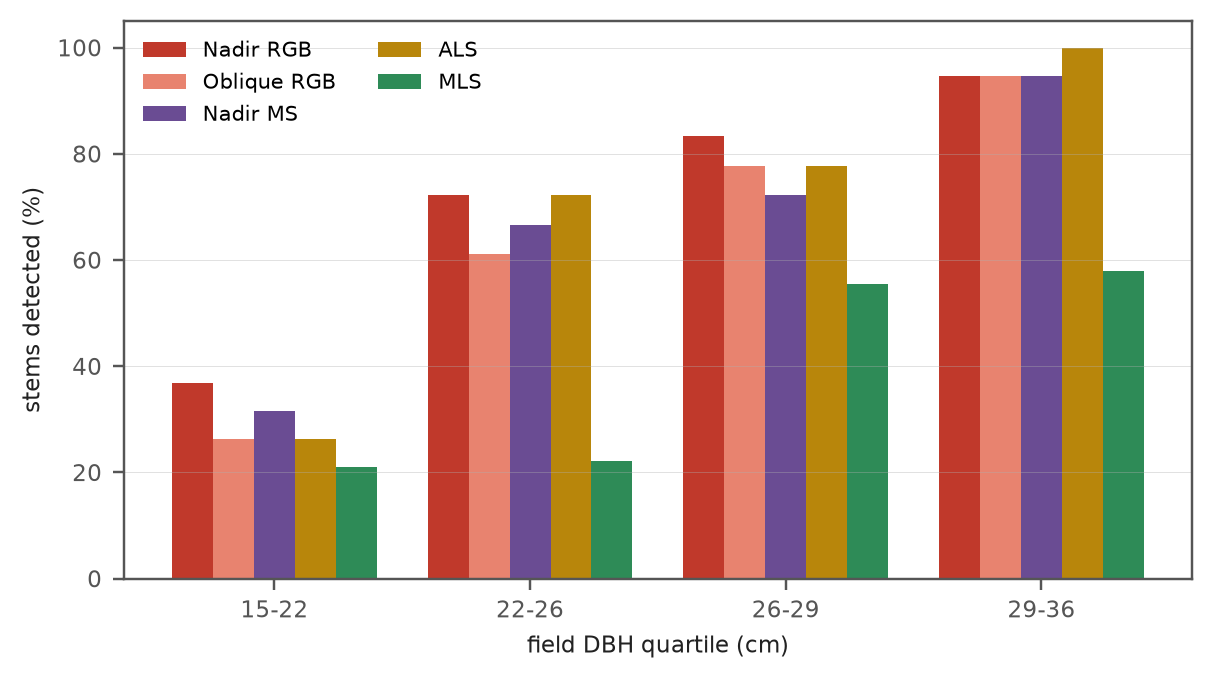
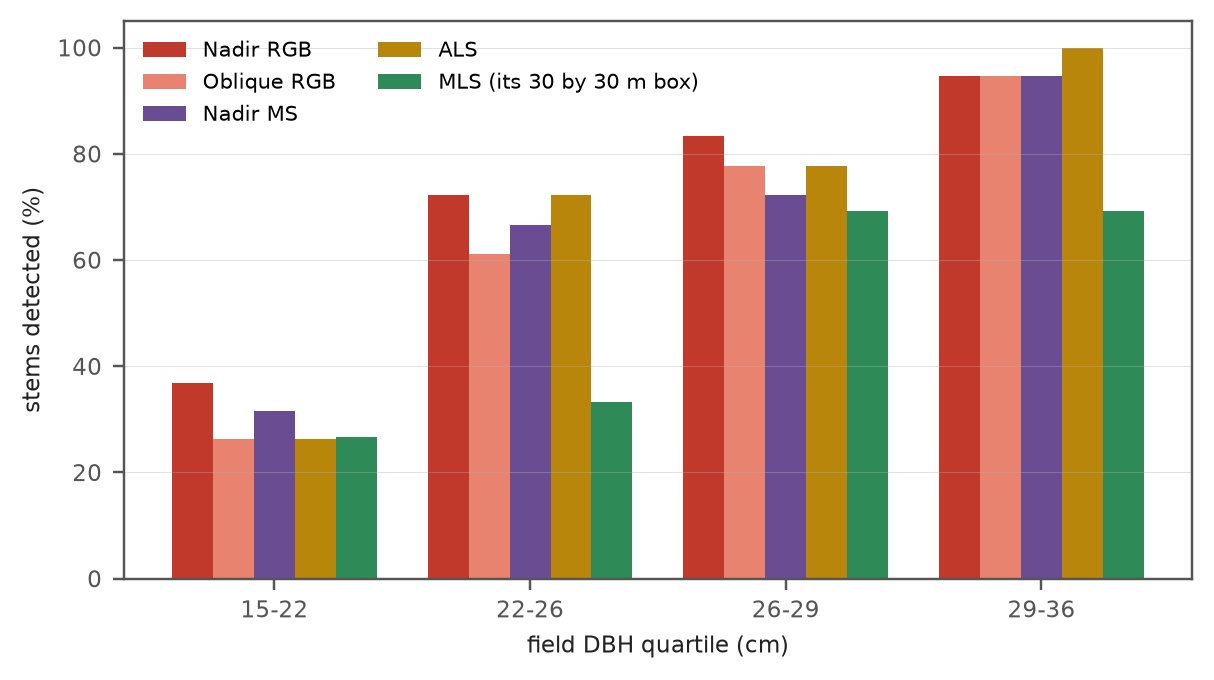
Score MLS on its own box in the detection-by-size figure
Figure 6 scored the MLS canopy height model detections against all 74 stems,
including the 24 outside the 30 by 30 m box it covers, which understated its
detection rate (21, 22, 56, 58 % by DBH quartile). Scored on the 50 stems in
the box it is 27, 33, 69, 69 %. The drone and ALS bars are unchanged. Report
caption, slide note and finding 18 updated.

diff --git a/scripts/project/06_figures.py b/scripts/project/06_figures.py
@@ -52,22 +52,30 @@ fig.tight_layout(pad=0.6); fig.savefig(F / "fig5_vertical_profiles.png", dpi=220
 plt.close(fig); print("fig5")
 
 # --- Figure 6: detection rate by DBH quartile, from the cache -------------------
+# The ground scanners are scored only on the stems inside the 30 by 30 m box they
+# cover. Scoring them over the whole plot counts 24 stems they never saw as misses
+# (finding 18). The drone and ALS cover the whole plot and are scored on all 74 stems.
 TOPS = A.detections()
 qs = np.quantile(DBH, [0, .25, .5, .75, 1.0])
+cls = np.clip(np.searchsorted(qs[1:-1], DBH, side="right"), 0, 3)
+in_box = C.in_box(REF[:, 0], REF[:, 1])
 rates = {}
 for name in ORDER:
     q = TOPS[(TOPS.cloud == name) & (np.isclose(TOPS.sep, 1.5))][["x", "y"]].to_numpy()
-    cost = np.linalg.norm(q[:, None, :] - REF[None, :, :], axis=2)
+    scored = in_box if name in ("TLS", "MLS") else np.ones(len(REF), bool)
+    cost = np.linalg.norm(q[:, None, :] - REF[scored][None, :, :], axis=2)
     i, j = linear_sum_assignment(cost)
     ok = cost[i, j] <= 2.0
-    hit = np.zeros(len(REF), bool); hit[j[ok]] = True
-    cls = np.clip(np.searchsorted(qs[1:-1], DBH, side="right"), 0, 3)
-    rates[name] = [100 * hit[cls == k].mean() for k in range(4)]
+    hit = np.zeros(scored.sum(), bool); hit[j[ok]] = True
+    c = cls[scored]
+    rates[name] = [100 * hit[c == k].mean() for k in range(4)]
 
+LABEL = {n: n.replace("_", " ") for n in ORDER}
+LABEL["MLS"] = "MLS (its 30 by 30 m box)"
 fig, a = plt.subplots(figsize=(5.4, 3.0))
 w = 0.16
 for i, (n, v) in enumerate(rates.items()):
-    a.bar(np.arange(4) + i * w - 2 * w, v, w, color=INK[n], label=n.replace("_", " "))
+    a.bar(np.arange(4) + i * w - 2 * w, v, w, color=INK[n], label=LABEL[n])
 a.set_xticks(np.arange(4))
 a.set_xticklabels([f"{qs[i]:.0f}-{qs[i+1]:.0f}" for i in range(4)])
 a.set_xlabel("field DBH quartile (cm)"); a.set_ylabel("stems detected (%)")

diff --git a/docs/project/report.md b/docs/project/report.md
@@ -213,7 +213,7 @@ TLS and MLS clouds gives the best result.
 For TLS the method matters more than the sensor: inside the box the same cloud gives F1
 0.610 from a canopy height model and 0.800 from a stem slice.
 
-![**Figure 6.** Detection rate by field DBH quartile.](figures/fig6_detection_by_dbh.png)
+![**Figure 6.** Detection rate by field DBH quartile, from the canopy height model detections. The drone clouds and ALS are scored on all 74 stems; MLS only on the 50 stems inside the 30 by 30 m box it covers.](figures/fig6_detection_by_dbh.png)
 
 Over each cloud's own coverage precision is above 0.92, so the limit is recall. (Inside
 the box, precision of the canopy height model routes drops to 0.78 to 0.91, mostly from

diff --git a/docs/project/FINDINGS.md b/docs/project/FINDINGS.md
@@ -455,6 +455,10 @@ height model routes falls to 0.78 to 0.91, mostly from treetops near the box edg
 stem lies just outside it. (The MLS canopy height model whole-plot value is 0.552 from the
 current cache; finding 9 listed 0.566 for it.)
 
+The same problem was in Figure 6 (detection by DBH quartile), where the MLS bars were
+scored against all 74 stems. Scored on the 50 stems in its box, MLS detects 27, 33, 69 and
+69 % by quartile instead of 21, 22, 56 and 58 %. The figure is regenerated.
+
 **Lesson.** When instruments cover different areas, compare them on the common area. A
 difference in coverage can look like a difference in quality.
 

diff --git a/docs/project/slides.md b/docs/project/slides.md
@@ -138,7 +138,7 @@ The drone clouds have **no ground** to check against.
 
 ![](figures/fig6_detection_by_dbh.png)
 
-<p class="sub">Precision is above 0.92 over each cloud's own coverage. Recall is limited by suppressed trees under the canopy, so stem counts are underestimated.</p>
+<p class="sub">MLS is scored on its own 30 by 30 m box. Precision is above 0.92 over each cloud's own coverage. Recall is limited by suppressed trees under the canopy, so stem counts are underestimated.</p>
 
 ## RQ5: stem diameter only from below
 
